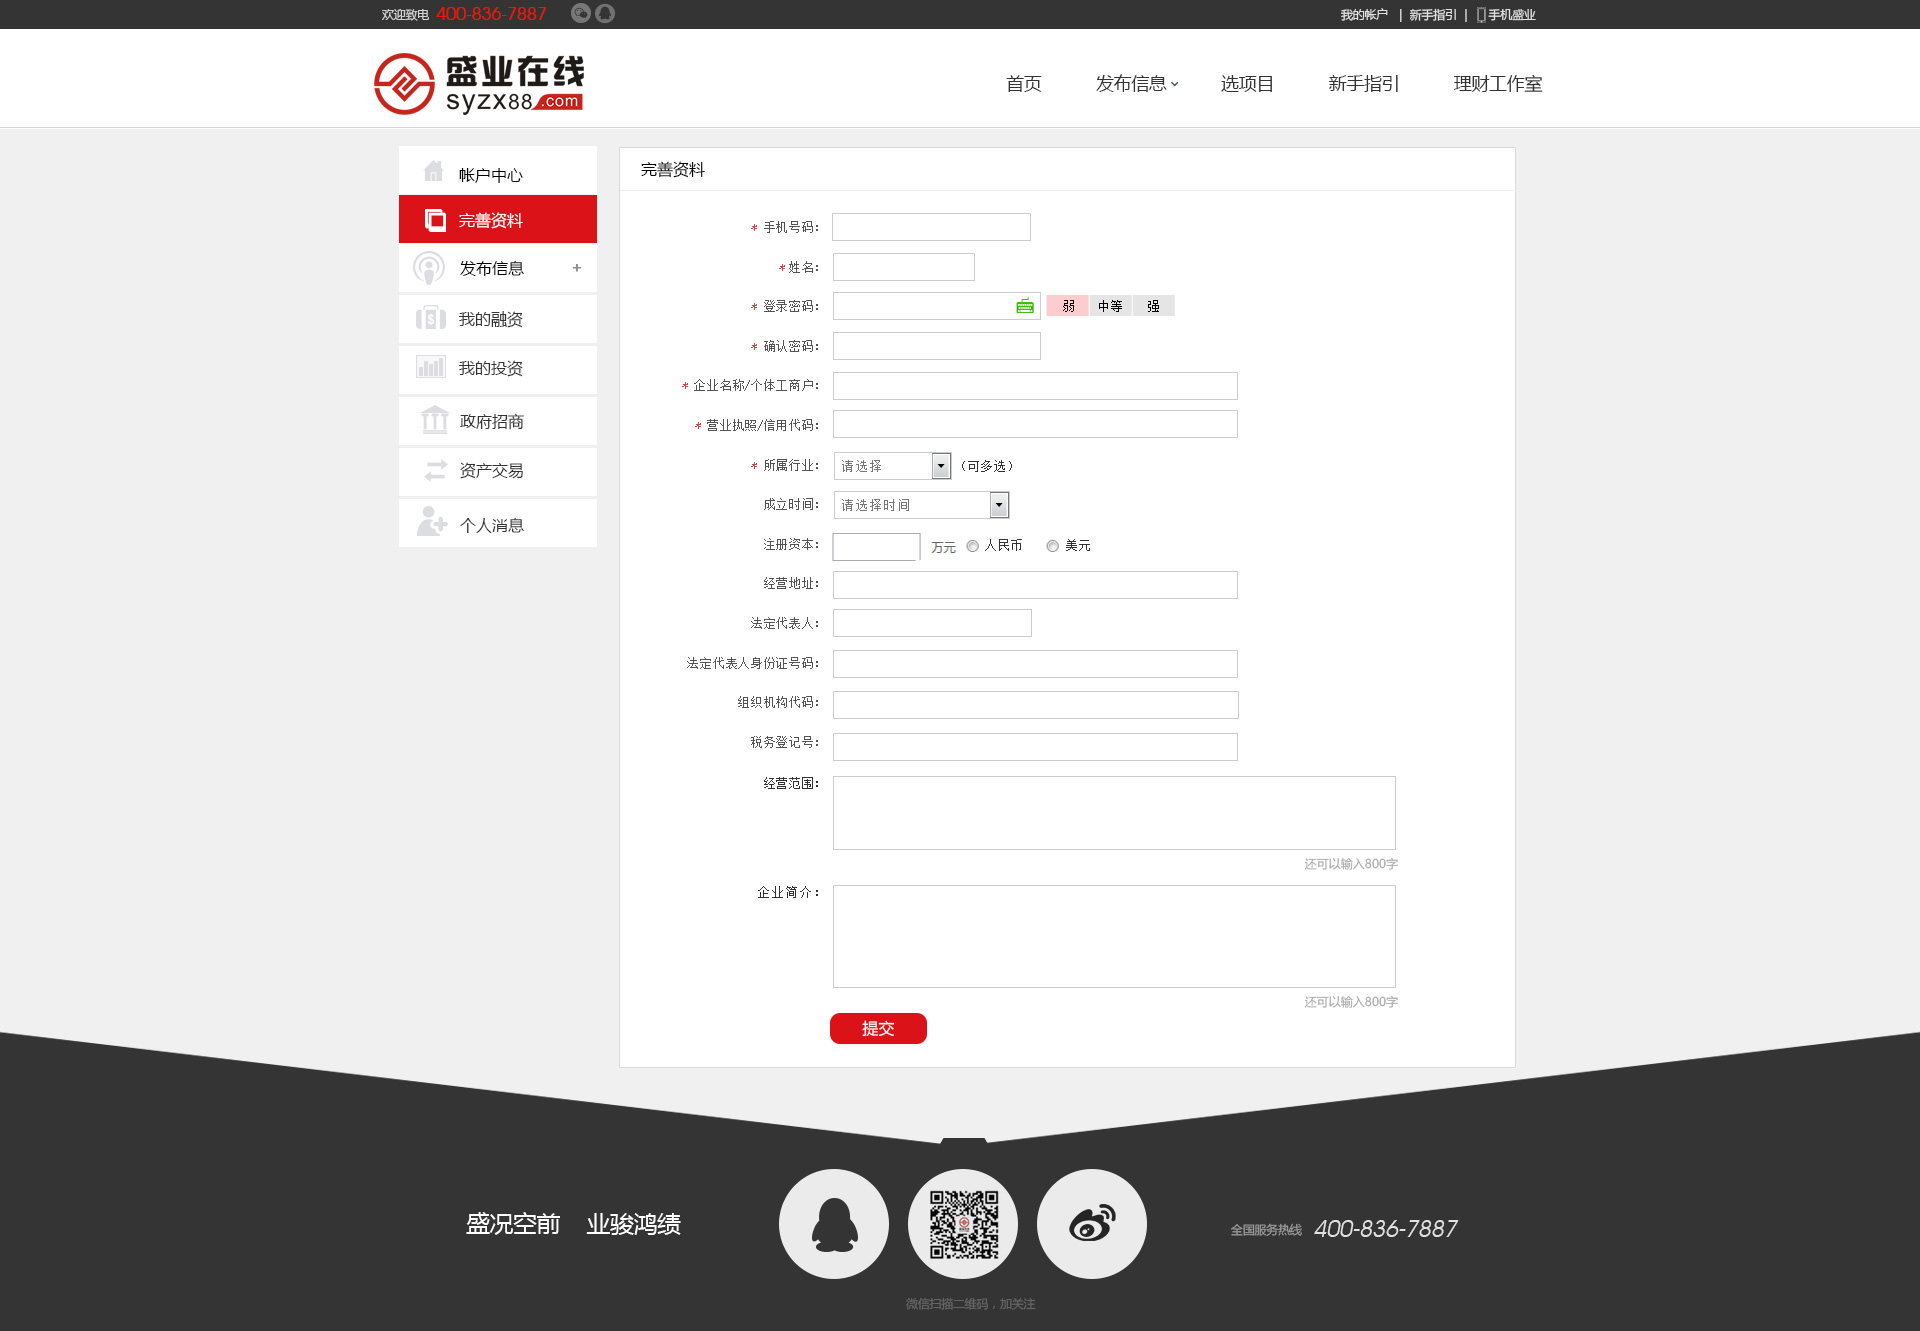
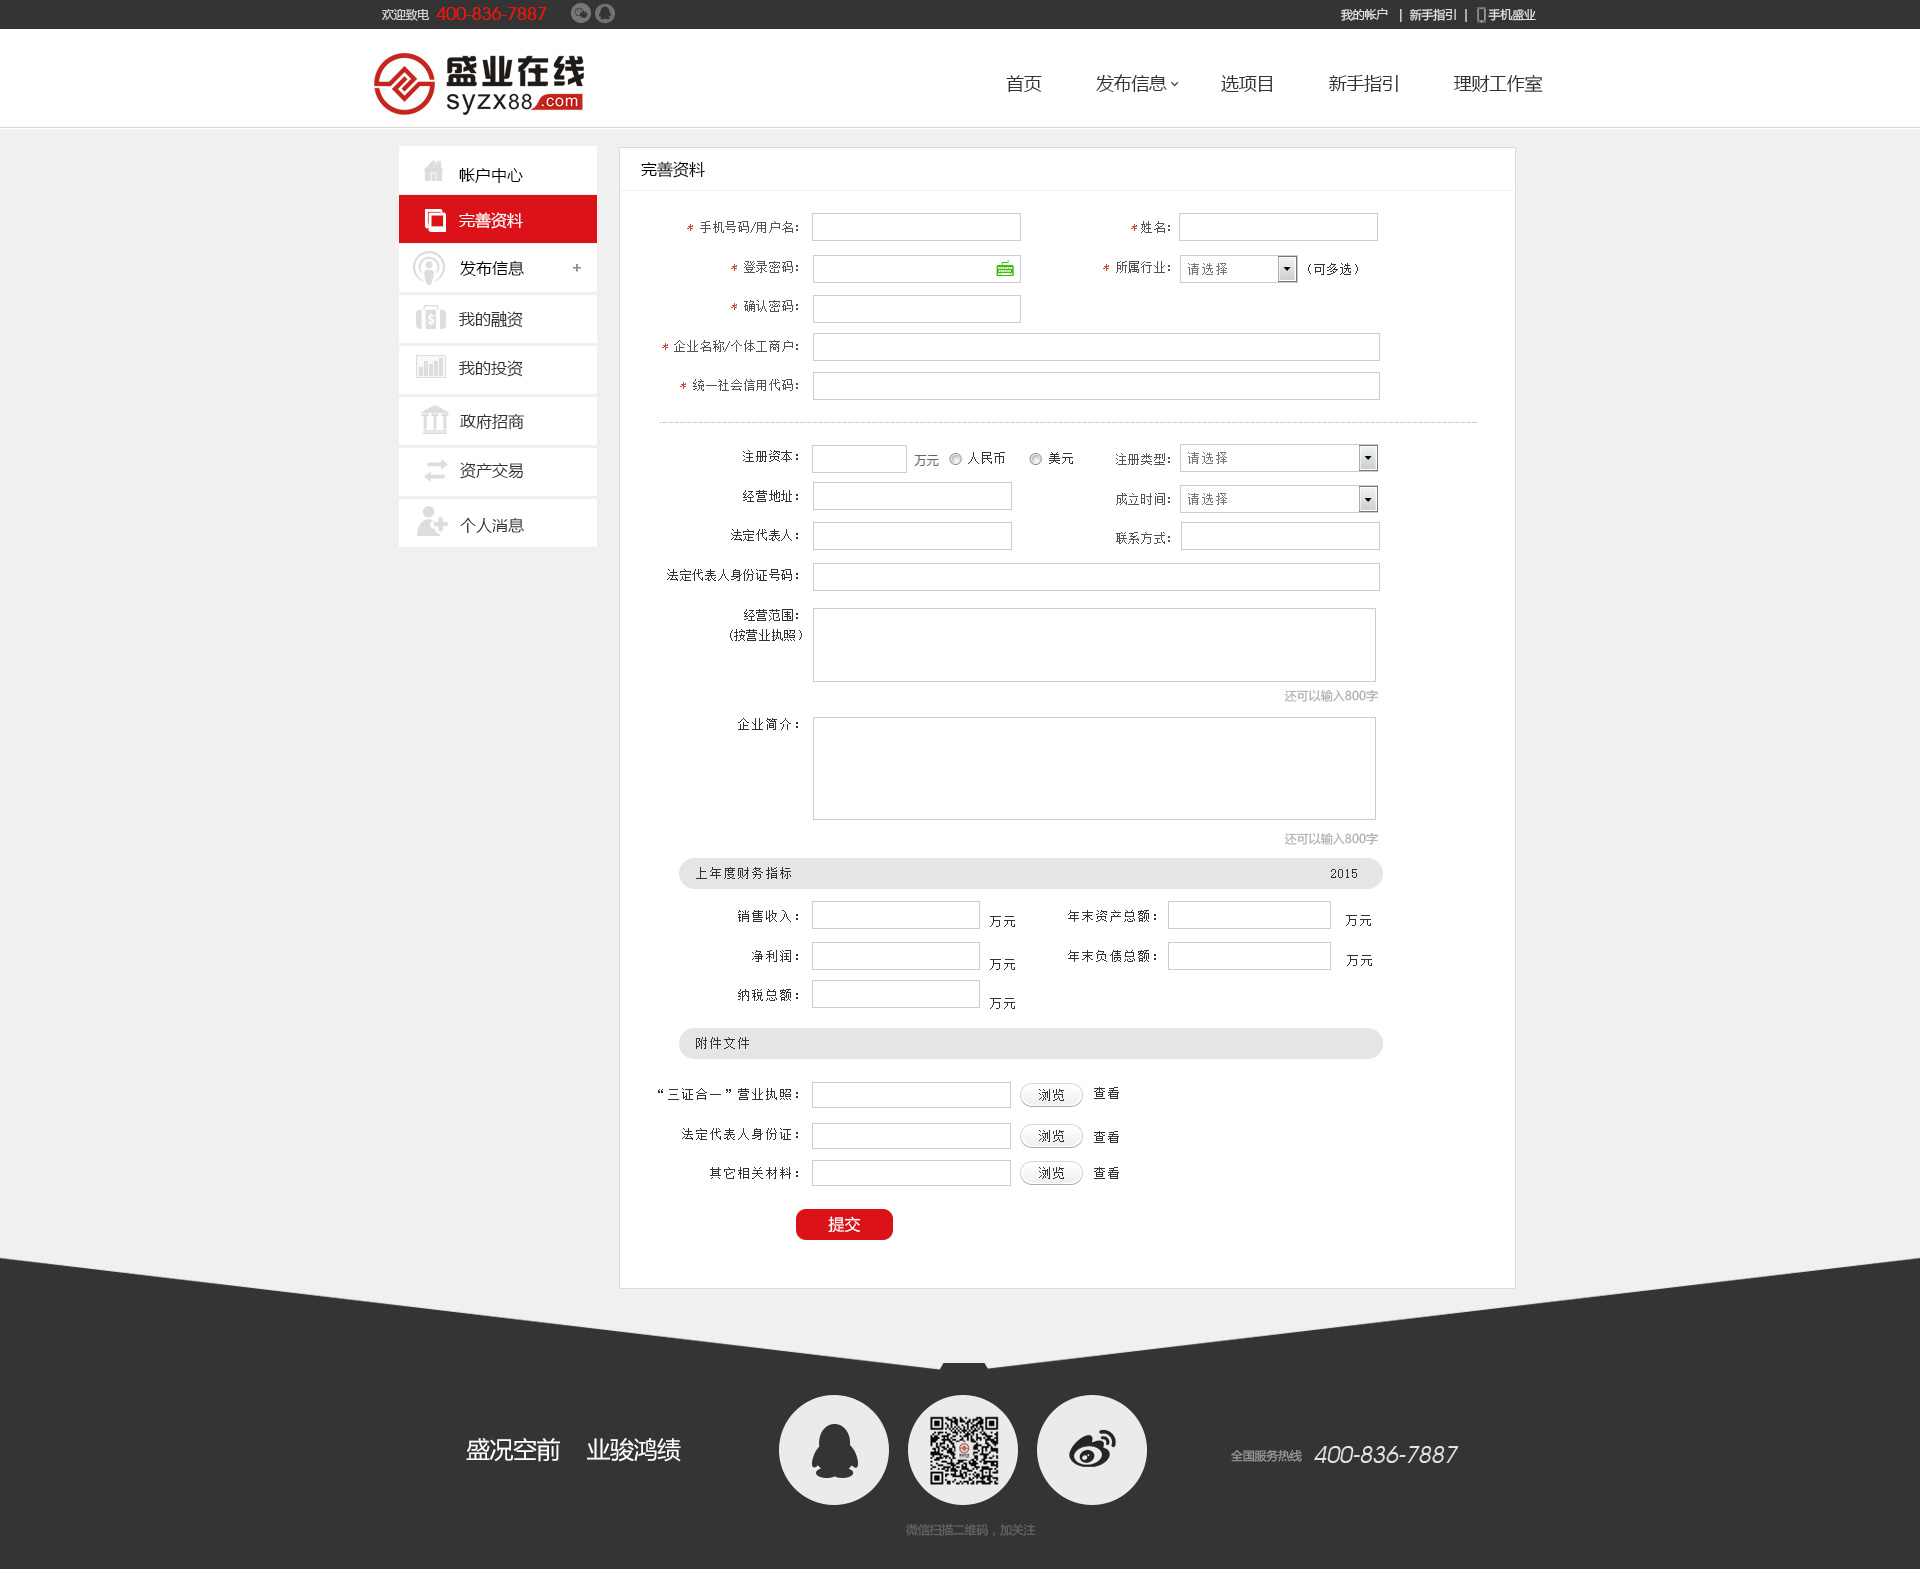
test

diff --git a/wszl.html b/wszl.html
@@ -9,7 +9,7 @@
 <body bgcolor="#E2E2E2" leftmargin="0" topmargin="0" marginwidth="0" marginheight="0">
 <table width="100%" border="0" cellspacing="0" cellpadding="0" style="background:url(images/wszlx.jpg) no-repeat center center;">
   <tr>
-    <td width="100%" height="1331">&nbsp;</td>
+    <td width="100%" height="1569">&nbsp;</td>
   </tr>
 </table>
 
